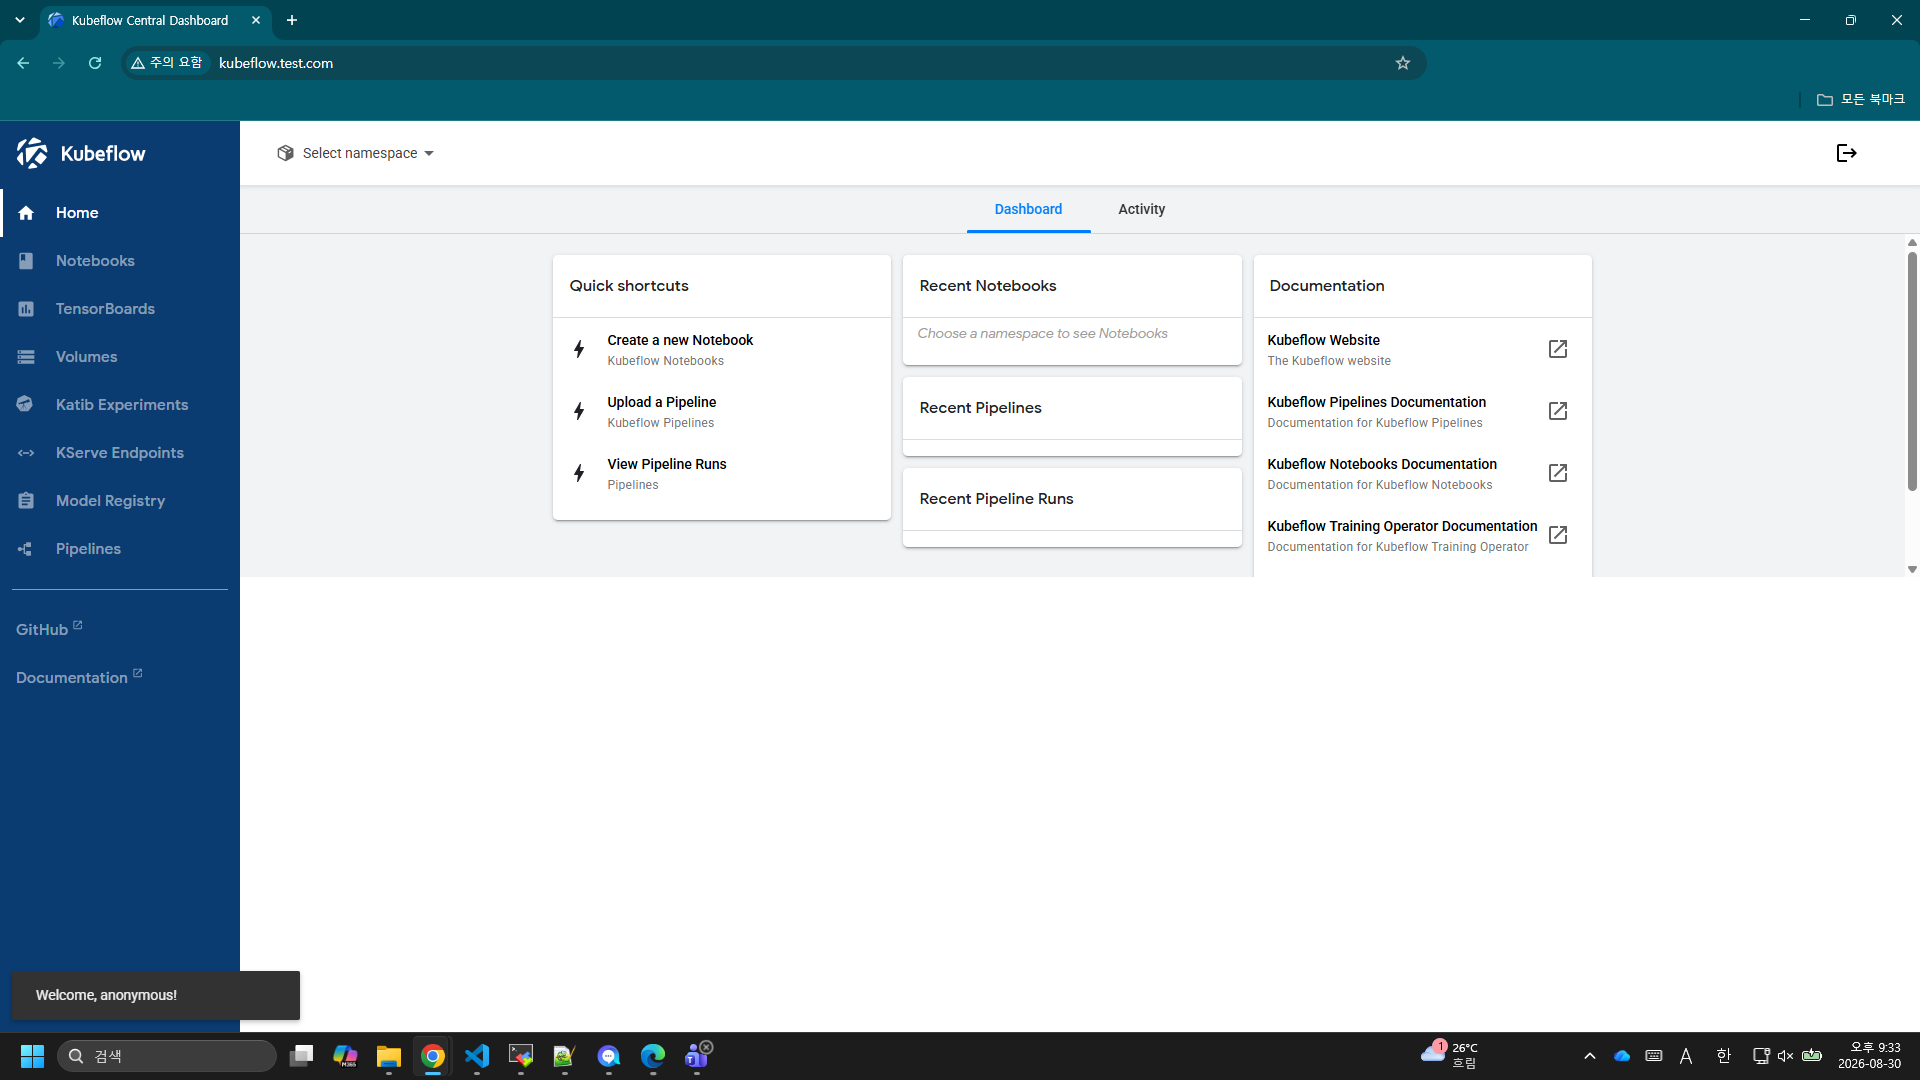
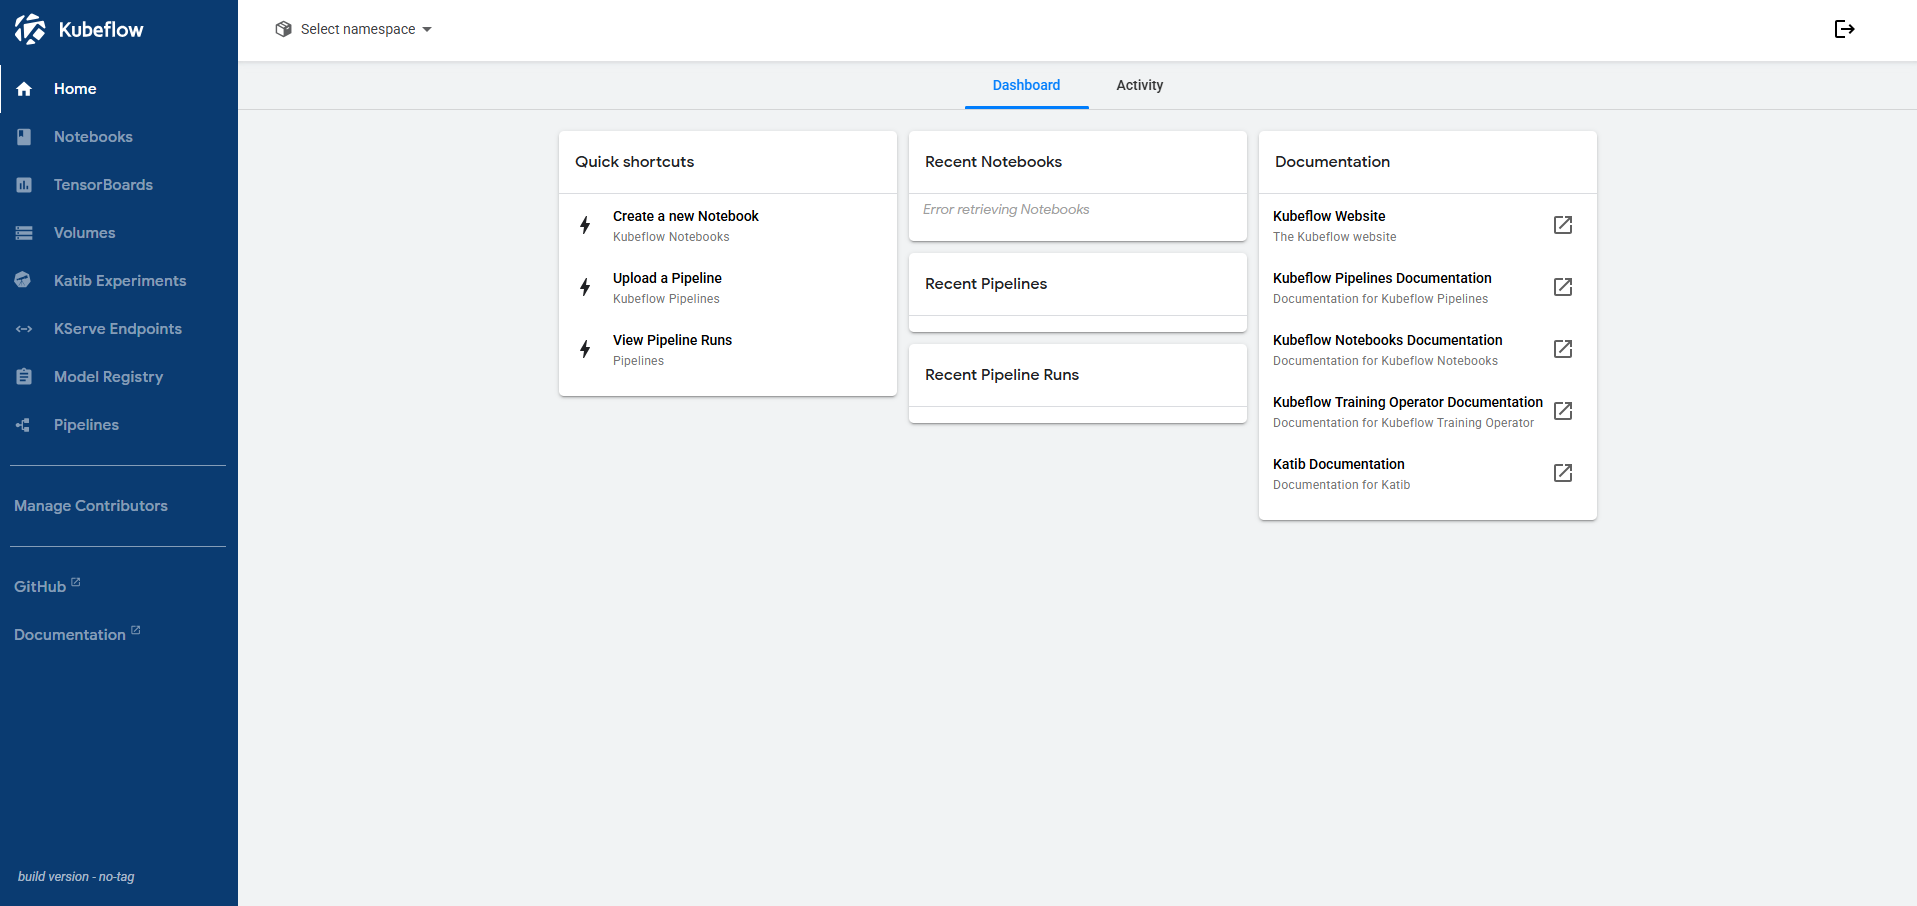
kubeflow dashboard 이미지 수정

diff --git a/_posts/Kubernetes/2026-08-26-[Kubernetes] - Kubeflow 설치하기.md b/_posts/Kubernetes/2026-08-26-[Kubernetes] - Kubeflow 설치하기.md
@@ -399,15 +399,15 @@ $ kubectl apply -f kubeflow-dashboard-ingress.yaml
 
 ### 4.2 Dashboard 접속하기 :
 
-- Ingress 생성 시 지정한 ***host***의 주소를 브라우저의 검색합니다.
+- Ingress 생성 시 지정한 ***host***의 주소를 브라우저의 검색하여 Kubeflow 로고와 함께 "Sign in with Dex" 버튼만 있는 초기 랜딩 페이지를 확인합니다.
 
 ![kubeflow Dashboard 접속 초기화면](/assets/img/post/kubernetes/kubeflow%20Dashboard%20접속%20초기화면.png)
 
 ---
 
-- Kubeflow에서 사용할 사용자 전용 Namespace 이름을 설정한 후 Finish 버튼을 클릭하여 작업 공간을 생성합니다.
+- Kubeflow 접속 시 Dex 인증 서버로 리다이렉트되어 이메일/비밀번호를 입력해 로그인합니다.
 
-![kubeflow profile namespace 지정](/assets/img/post/kubernetes/kubeflow%20profile%20namespace%20지정.png)
+![kubeflow dex 로그인 페이지 화면](/assets/img/post/kubernetes/kubeflow%20dex%20로그인%20페이지%20화면.png)
 
 ---
 
